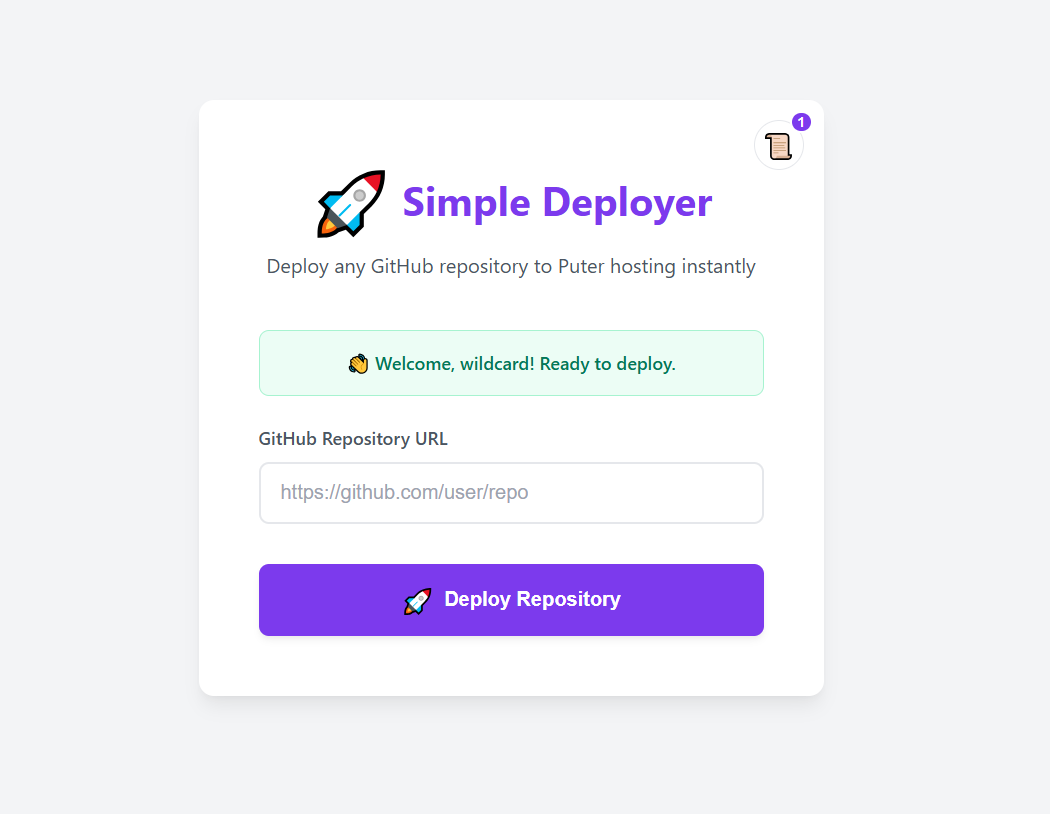
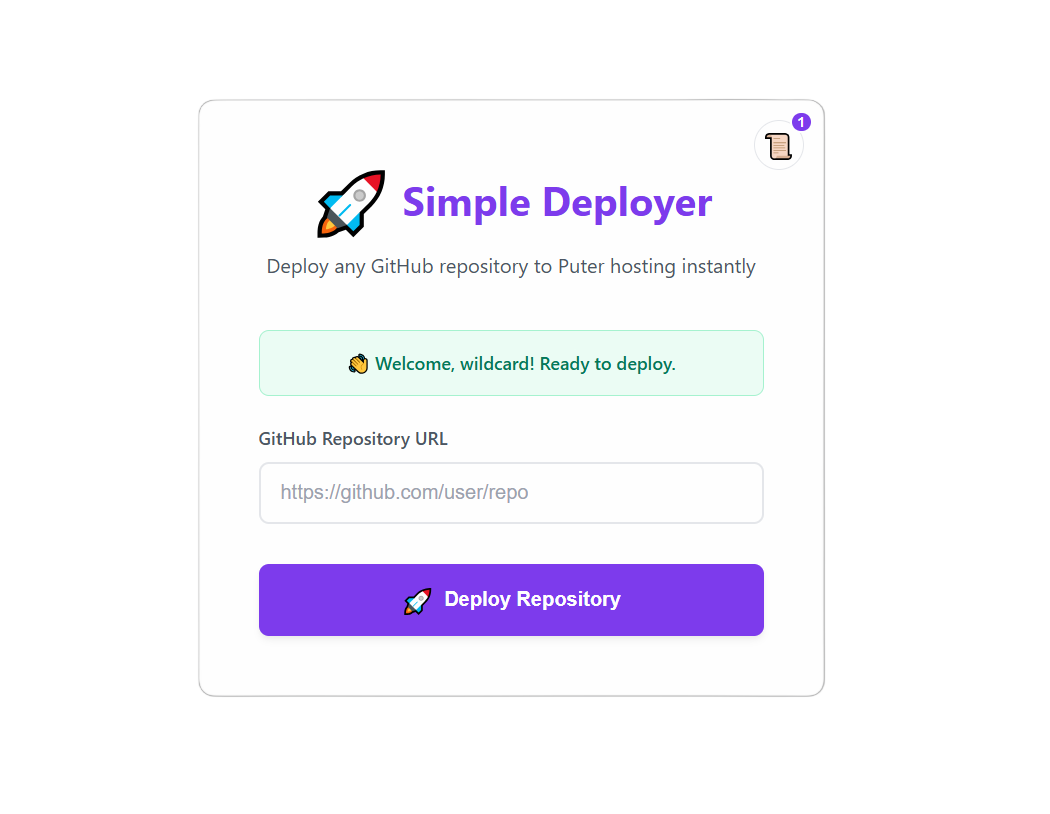
screenshot update

Changed region(s): [[0.2133, 0.8292, 0.7924, 0.86]]

diff --git a/src/index.html b/src/index.html
@@ -17,6 +17,11 @@
         <div class="header">
             <h1><span class="icon">🚀</span> Simple Deployer</h1>
             <p>Deploy any GitHub repository to Puter hosting instantly</p>
+            <a href="https://github.com/Puter-Apps/deploy-from-github" target="_blank" rel="noopener noreferrer" class="github-link-top-right">
+                <svg width="16" height="16" viewBox="0 0 16 16" fill="currentColor" xmlns="http://www.w3.org/2000/svg" style="margin-right: 6px; vertical-align: text-bottom;">
+                    <path fill-rule="evenodd" clip-rule="evenodd" d="M8 0C3.58 0 0 3.58 0 8C0 11.54 2.29 14.53 5.47 15.59C5.87 15.66 6.02 15.42 6.02 15.21C6.02 15.02 6.01 14.39 6.01 13.72C4 14.09 3.48 13.23 3.32 12.78C3.23 12.55 2.84 11.84 2.5 11.65C2.22 11.5 1.82 11.13 2.49 11.12C3.12 11.11 3.57 11.7 3.72 11.94C4.44 13.15 5.59 12.81 6.05 12.6C6.12 12.08 6.33 11.73 6.56 11.53C4.78 11.33 2.92 10.64 2.92 7.58C2.92 6.71 3.23 5.99 3.74 5.43C3.66 5.23 3.38 4.41 3.82 3.31C3.82 3.31 4.49 3.1 6.02 4.13C6.66 3.95 7.34 3.86 8.02 3.86C8.7 3.86 9.38 3.95 10.02 4.13C11.55 3.09 12.22 3.31 12.22 3.31C12.66 4.41 12.38 5.23 12.3 5.43C12.81 5.99 13.12 6.7 13.12 7.58C13.12 10.65 11.25 11.33 9.47 11.53C9.76 11.78 10.01 12.26 10.01 13.01C10.01 14.08 10 14.94 10 15.21C10 15.42 10.15 15.67 10.55 15.59C13.71 14.53 16 11.53 16 8C16 3.58 12.42 0 8 0Z" />
+                </svg>View on GitHub
+            </a>
         </div>
 
         <div id="status" class="status-bar"></div>

diff --git a/src/style.css b/src/style.css
@@ -88,7 +88,8 @@ body {
 }
 
 .header {
-    margin-bottom: 2.5rem;
+    margin-bottom: 2rem;
+    position: relative;
 }
 
 .header h1 {
@@ -108,8 +109,34 @@ body {
 
 .header p {
     color: var(--color-text-secondary);
-    font-size: 1rem;
-    line-height: 1.5;
+    font-size: 0.9rem;
+}
+
+.github-link-top-right {
+    position: absolute;
+    top: 15px;
+    right: 20px;
+    background-color: rgba(0, 0, 0, 0.05);
+    color: var(--color-text-secondary);
+    padding: 6px 10px;
+    border-radius: var(--border-radius-md);
+    text-decoration: none;
+    font-size: 0.85em;
+    font-weight: 500;
+    border: 1px solid var(--color-border);
+    transition: background-color 0.3s ease, border-color 0.3s ease;
+    z-index: 10;
+    display: inline-flex;
+    align-items: center;
+}
+
+.github-link-top-right:hover {
+    background-color: rgba(0, 0, 0, 0.1);
+    border-color: var(--color-primary-500);
+}
+
+.github-link-top-right svg {
+    fill: currentColor;
 }
 
 .form-group {
